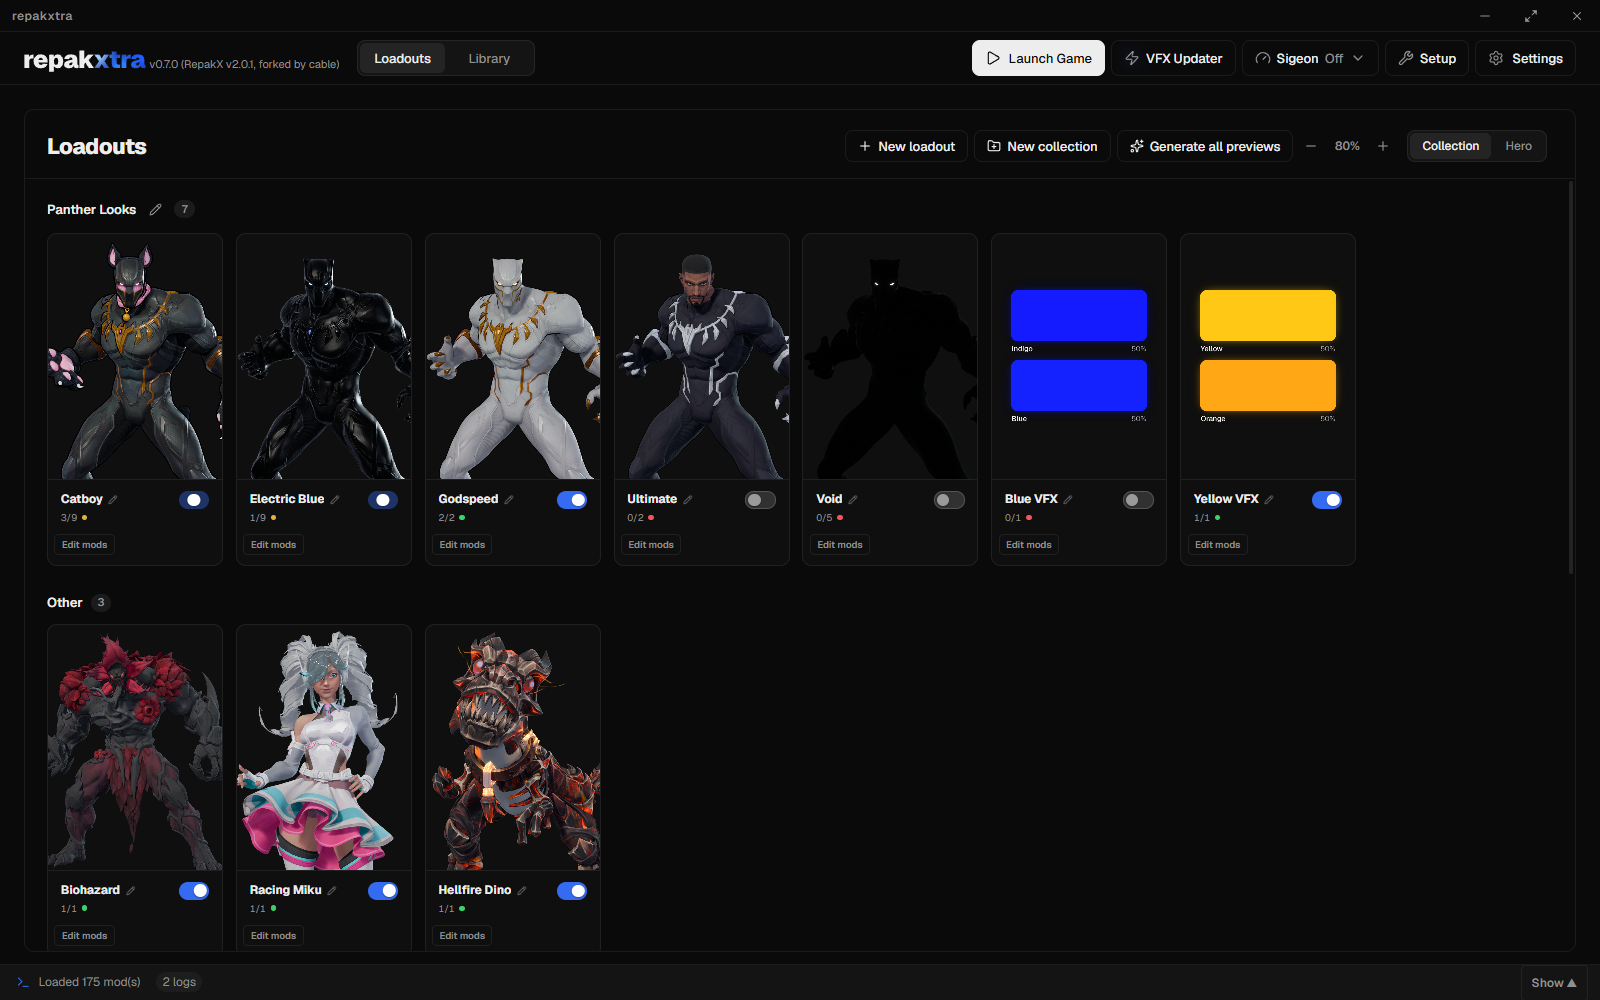
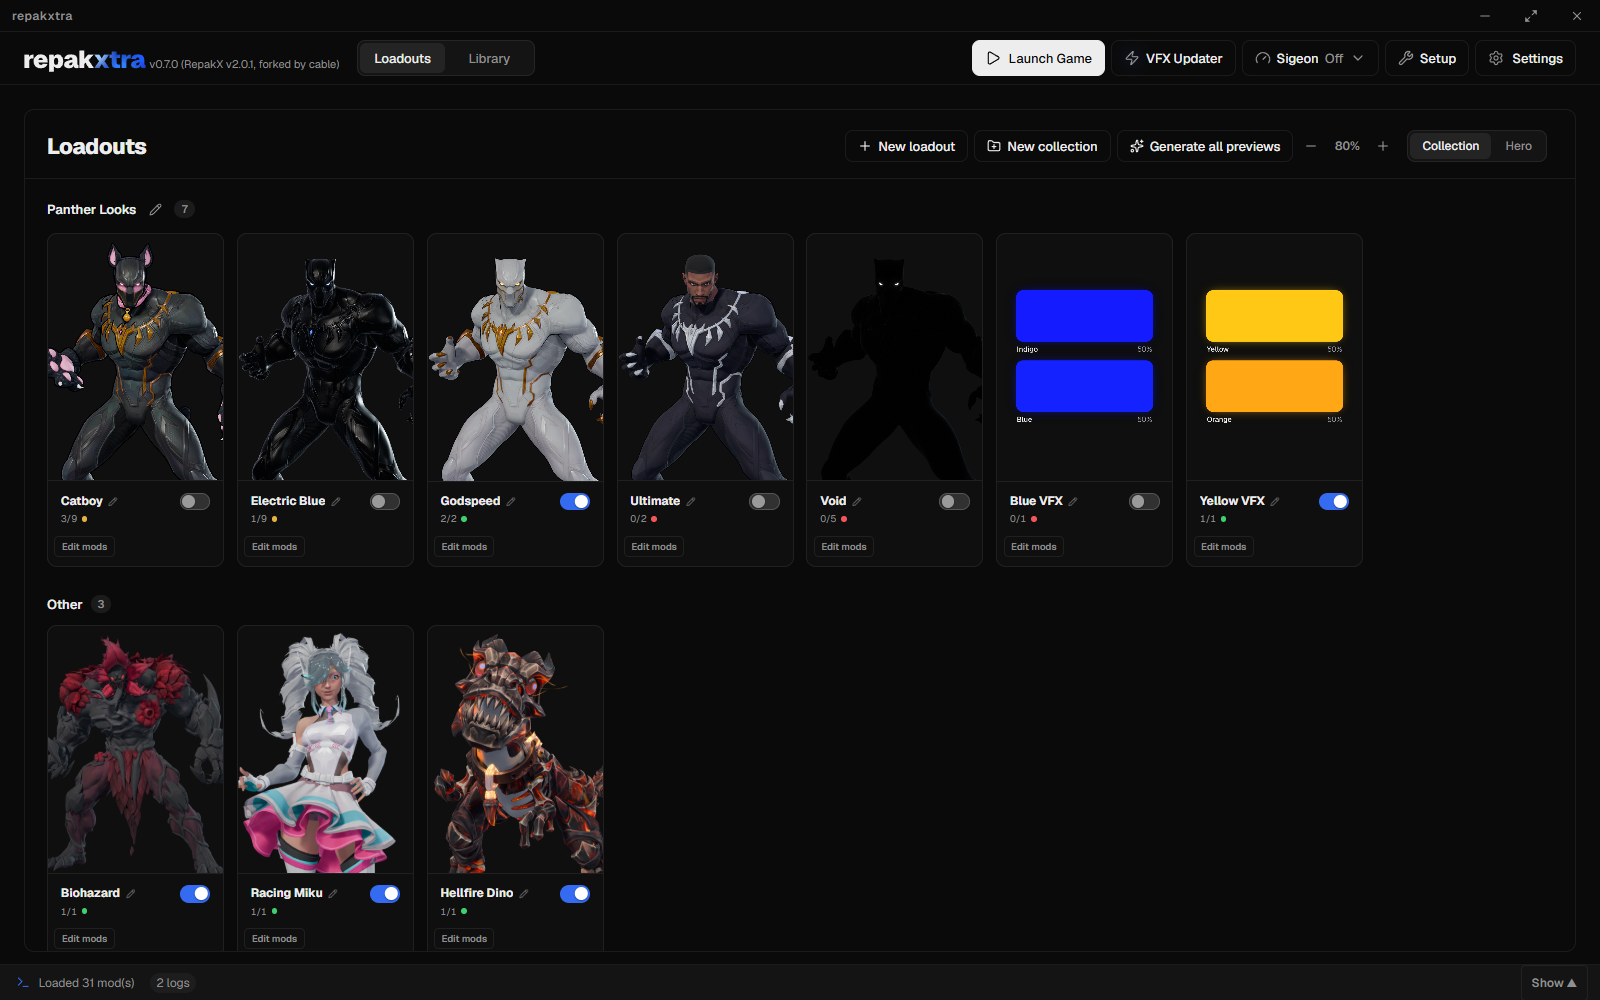
Drop the partly-on loadout switch, and retake the README media with only the ten loadouts' mods
- A loadout with only some mods on shows its switch off again (its yellow dot still says some are on)
- New GIFs and screenshots: the Library lists only the 31 mods of the ten shown loadouts

diff --git a/repak-x/src/custom/theme.css b/repak-x/src/custom/theme.css
@@ -918,10 +918,6 @@ html[data-hide-tags] .mod-tags-row > .tag:not(.hero-tag) { display: none !import
 .repakx-switch-thumb { background: #9a9a9a !important; box-shadow: 0 1px 2px rgba(0, 0, 0, 0.4) !important; }
 .repakx-switch.checked .repakx-switch-track { background: var(--accent-primary) !important; box-shadow: none !important; }
 .repakx-switch.checked .repakx-switch-thumb { background: #ffffff !important; }
-/* Partly on (some of a loadout's mods on): thumb in the middle of a dim accent track */
-.repakx-switch.is-partly .repakx-switch-track { background: color-mix(in srgb, var(--accent-primary) 40%, transparent) !important; box-shadow: none !important; }
-.repakx-switch.is-partly .repakx-switch-thumb { background: #ffffff !important; }
-.repakx-switch.sm.is-partly .repakx-switch-thumb { transform: translateX(8px); }
 /* Checked checkboxes: solid accent, and the checkmark eases in instead of bouncing */
 .repakx-checkbox.checked .repakx-checkbox-box, .repakx-checkbox.indeterminate .repakx-checkbox-box {
   background: var(--accent-primary) !important; background-image: none !important; border-color: var(--accent-primary) !important;
@@ -2304,4 +2300,4 @@ html.is-dragging-card .lo-card:hover { border-color: var(--panel-border); }
 /* Light theme (no Settings entry now; an older settings.json can still pick it): the same blue accent, never the
    upstream red the app sets inline */
 :root[data-theme="light"] { --accent-primary: #346bf1 !important; --accent-secondary: #346bf1 !important; }
-:root[data-theme="light"] .repakx-switch:not(.checked):not(.is-partly) .repakx-switch-track { background: rgba(0, 0, 0, 0.1) !important; box-shadow: inset 0 0 0 1px rgba(0, 0, 0, 0.18) !important; }
+:root[data-theme="light"] .repakx-switch:not(.checked) .repakx-switch-track { background: rgba(0, 0, 0, 0.1) !important; box-shadow: inset 0 0 0 1px rgba(0, 0, 0, 0.18) !important; }

diff --git a/repak-x/src/custom/LoadoutPage.tsx b/repak-x/src/custom/LoadoutPage.tsx
@@ -108,9 +108,7 @@ export default function LoadoutPage({ p, l, busy, onToggle, onBack, onPickMedia,
   const active = isActive(l, p.mods)
   const onNow = mine.filter(k => byKey.get(k)?.enabled).length
   const present = mine.length - missing.length
-  const partly = !active && onNow > 0
-  const switchTitle = present === 0 ? 'No installed mods' : active ? `Turn ${l.name}'s mods off`
-    : partly ? `Turn on the rest of ${l.name}'s mods (${present - onNow} more)` : `Turn ${l.name}'s mods on`
+  const switchTitle = present === 0 ? 'No installed mods' : active ? `Turn ${l.name}'s mods off` : `Turn ${l.name}'s mods on`
   const hasMedia = Boolean(l.mediaRev || l.image)
   const group = groups.find(g => groupKey(g) === groupKey(l.label))
 
@@ -236,9 +234,8 @@ export default function LoadoutPage({ p, l, busy, onToggle, onBack, onPickMedia,
           <div className="lp-actions">
             <label className="lp-switch">
               <Switch size="sm" color="primary" checked={active} isDisabled={present === 0} disabled={busy || present === 0}
-                className={partly ? 'is-partly' : ''} aria-checked={partly ? 'mixed' : active}
                 onChange={(on: boolean) => onToggle(on)} title={switchTitle} aria-label={switchTitle} />
-              <SwapText text={active ? 'On' : partly ? 'Partly on' : 'Off'} />
+              <SwapText text={active ? 'On' : 'Off'} />
             </label>
             <GeneratePreviewsButton className="lo-text-btn" label="Generate previews" set={previewSetKey(l.id)} name={l.name} stopOnly
               paths={mine.map(k => byKey.get(k)?.path).filter((x): x is string => Boolean(x))} />

diff --git a/repak-x/src/custom/LoadoutsScreen.tsx b/repak-x/src/custom/LoadoutsScreen.tsx
@@ -120,8 +120,7 @@ const LoadoutCard = memo(function LoadoutCard({ p, l, groupBy, canGenerate, busy
   const keys = new Set(l.on.map(displayName))
   const present = [...keys].filter(k => byKey.has(k)).length
   const onNow = [...keys].filter(k => byKey.get(k)?.enabled).length
-  const partly = !active && onNow > 0 // some of its mods on: the switch draws a middle state
-  const label = present === 0 ? 'No installed mods' : active ? `Turn ${l.name} off` : partly ? `Turn on the rest of ${l.name} (${present - onNow} more)` : `Turn ${l.name} on`
+  const label = present === 0 ? 'No installed mods' : active ? `Turn ${l.name} off` : `Turn ${l.name} on`
   return (
     <article data-loadout={l.id} className={`lo-card ${active ? 'is-on' : ''}${placeholder ? ' is-placeholder' : ''}`}
       onPointerDown={groupBy === 'group' && !renaming ? e => onPick(e, l.id) : undefined}
@@ -144,7 +143,6 @@ const LoadoutCard = memo(function LoadoutCard({ p, l, groupBy, canGenerate, busy
             </span>
           )}
           <Switch size="sm" color="primary" checked={active} isDisabled={present === 0} disabled={anyBusy || present === 0}
-            className={partly ? 'is-partly' : ''} aria-checked={partly ? 'mixed' : active}
             title={label} aria-label={label} onChange={(checked: boolean) => onToggle(l, checked)} />
         </div>
         <p className="lo-card-meta">

diff --git a/README.md b/README.md
@@ -35,7 +35,6 @@ repakxtra is a fork of **[Repak X](https://github.com/X-zant/Repak-X)** by **Xza
 
 **Loadouts**
 - One click turns a set of mods on or off. Loadouts are independent, and you are warned when two that are on change the same hero.
-  A loadout with only some of its mods on shows its switch half way and says "Partly on".
 - Collections or a view by hero. Drag a card to reorder it, move it to another collection or start a new one with it; the
   pencils rename loadouts and collections. **−** and **+** in the header (or `Ctrl` + scroll) change the card size.
 - Make one from the Library selection, the right-click menu, the sidebar or while installing. Undo for every removal.
